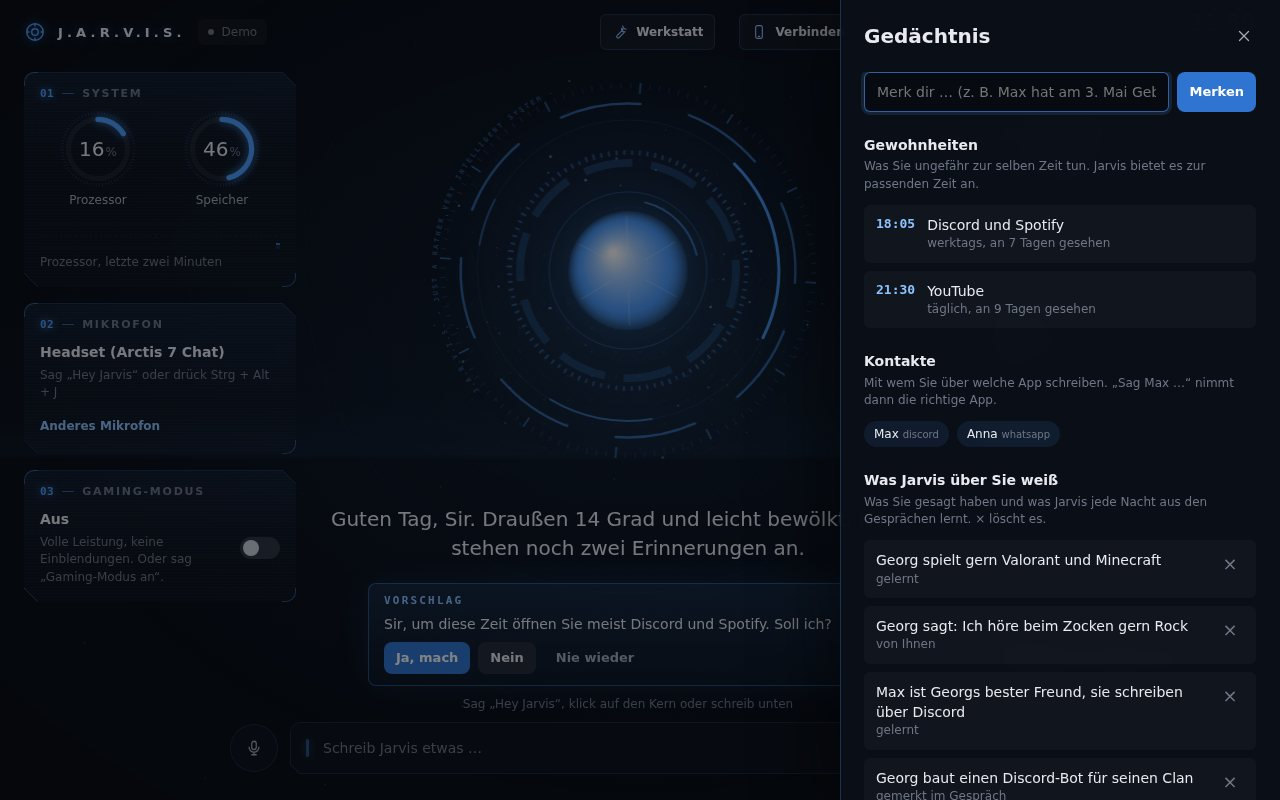
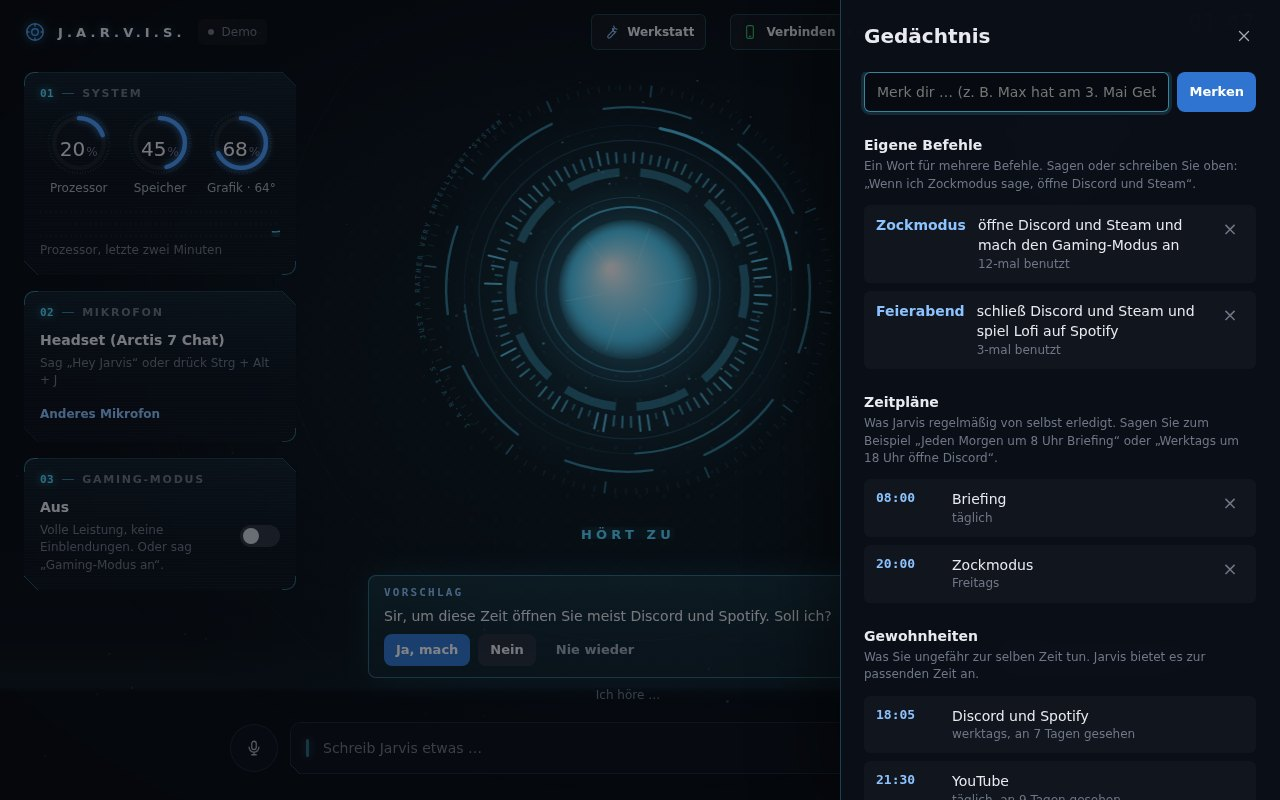
Anleitung und Bilder: lokale Stimme, Kalender, Handy-Stimme, Zeitpläne, Notizbuch
Neue Abschnitte in der ANLEITUNG (Lokale Stimme, Handy mit Sprechtaste und
"Sicher von überall", Kalender, eigene Befehle, Zeitpläne, Termine,
Notizbuch und Fähigkeiten, Opus mit dem Max-Abo) und im README. Neue
Bilder vom Hauptfenster (Schnellbefehle, Grafik-Ring, Termine unter
Heute), vom Gedächtnis, von Verbinden > Kalender und vom Handy.

Die Schnellbefehle bleiben in einer Zeile und machen Platz, solange ein
Vorschlag offen ist.

Claude-Session: https://claude.ai/code/session_01SmtJ1qc8wnYu9sLYM9z56c

diff --git a/jarvis/gui/web/style.css b/jarvis/gui/web/style.css
@@ -1912,7 +1912,9 @@ body[data-view="workshop"] .holo-scan {
   justify-content: center;
   gap: 8px;
   max-width: 560px;
+  max-height: 34px; /* immer nur eine Zeile: was nicht passt, bleibt weg */
   margin: 4px auto 0;
+  overflow: hidden;
 }
 
 .deck:empty {
@@ -1939,4 +1941,9 @@ body[data-view="workshop"] .holo-scan {
 
 .status.busy .deck {
   visibility: hidden;
+}
+
+/* Während ein Vorschlag offen ist, reicht der Platz nicht für beides */
+.offer:not([hidden]) ~ .deck {
+  display: none;
 }

diff --git a/ANLEITUNG.md b/ANLEITUNG.md
@@ -53,9 +53,20 @@ Das ist der große Unterschied: Jarvis klingt dann wie ein Mensch.
 
 Fertige Stimmen aus der Bibliothek (zum Beispiel Lennard) gehen ab dem Abo **Starter** (etwa 6 $ im Monat).
 
-## 3. Handy, Alexa und Discord verbinden (freiwillig)
+### Lokale Stimme (kostenlos, ohne Internet)
 
-Im Jarvis-Fenster oben auf **Verbinden** klicken. Dort gibt es drei Bereiche.
+Die Alternative zu ElevenLabs: Eine natürliche deutsche Stimme, die ganz auf deinem PC läuft. Kein Abo, kein Schlüssel, nichts geht ins Internet.
+
+1. Einrichtung (Zahnrad im Jarvis-Fenster) > **Stimme** > Reiter **Lokal**.
+2. **Lokal einrichten** klicken. Jarvis lädt einmalig etwa 1,3 GB (Stimme und Spracherkennung). Das dauert je nach Internet 5 bis 15 Minuten.
+3. Die sechs Stimmen anhören (▶) und eine anklicken. **George** ist am klarsten, **Charles** am tiefsten.
+4. Wer möchte: **Auch die Spracherkennung auf dem PC** einschalten. Dann geht außer den Fragen an Claude gar nichts mehr ins Internet.
+
+**Geklappt, wenn:** oben „Aktiv“ steht und Jarvis mit der gewählten Stimme antwortet. Die Stimme rechnet auf dem Prozessor und nimmt höchstens die Hälfte der Kerne, damit Spiele flüssig bleiben.
+
+## 3. Handy, Alexa, Discord und Kalender verbinden (freiwillig)
+
+Im Jarvis-Fenster oben auf **Verbinden** klicken. Dort gibt es vier Bereiche.
 
 ![Verbinden: Handy, Alexa und Discord](docs/bilder/verbinden.jpg)
 
@@ -65,7 +76,16 @@ Im Jarvis-Fenster oben auf **Verbinden** klicken. Dort gibt es drei Bereiche.
 2. Mit der Handy-Kamera den QR-Code scannen und den Link öffnen.
 3. Im Browser-Menü **Zum Startbildschirm hinzufügen** (iPhone: Teilen-Knopf). Jetzt ist Jarvis eine App auf deinem Handy.
 
-**Geklappt, wenn:** oben in der App „Bereit“ steht. Du kannst schreiben, mit dem Mikrofon der Handy-Tastatur diktieren, Schnellaktionen antippen und die Werkstatt verfolgen. Das Handy muss im selben WLAN sein. Von unterwegs: **Tailscale** (kostenlos) auf PC und Handy installieren.
+**Geklappt, wenn:** oben in der App „Bereit“ steht. Du kannst schreiben, mit dem Mikrofon der Handy-Tastatur diktieren, Schnellaktionen (auch deine eigenen Befehle) antippen und die Werkstatt verfolgen. Das Handy muss im selben WLAN sein.
+
+**Jarvis' Stimme auf dem Handy:** Oben rechts in der App steht, wo Jarvis antwortet. Tippen wechselt zwischen **Handy** (Jarvis spricht auf dem Handy, in derselben Stimme wie am PC), **PC** und **Still**.
+
+**Sicher von überall, mit Sprechtaste:** Mit **Tailscale** (kostenlos) geht die App auch unterwegs, über eine verschlüsselte Adresse. Dann funktioniert auch die **Sprechtaste** in der App (antippen, sprechen, nochmal tippen), und die App lässt sich richtig installieren.
+
+1. Tailscale auf dem PC installieren (oder sag „Jarvis, installiere Tailscale“) und einmal anmelden (Symbol unten rechts neben der Uhr).
+2. Auf dem Handy die App **Tailscale** installieren und mit demselben Konto anmelden.
+3. Im Bereich **Handy** bei **Sicher von überall** auf **Einschalten** klicken. Kommt der Knopf **HTTPS erlauben**: anklicken, im Browser bestätigen, dann nochmal **Einschalten**.
+4. Den QR-Code neu scannen. Die Adresse beginnt jetzt mit `https://`.
 
 **Benachrichtigungen aufs Handy** (Erinnerungen, „Aus der Werkstatt: fertig“), wenn du nicht am PC sitzt:
 
@@ -97,6 +117,18 @@ Jarvis' eigener Bot gestaltet deinen Server im Hintergrund: Kanäle, Rollen, Reg
 4. **Einladen** klicken, deinen Server auswählen, **Autorisieren**.
 
 **Geklappt, wenn:** du sagst „Jarvis, gestalte meinen Discord-Server für Gaming mit Regeln und Sprachkanälen“ und die Kanäle erscheinen.
+
+### Kalender
+
+Jarvis liest deinen Kalender mit (nur lesen): Er sagt 15 Minuten vor einem Termin Bescheid, nennt die Termine morgens, zeigt sie rechts bei **Heute** und merkt, wenn ein Termin abgesagt oder verschoben wird. Eigene Termine („Trag morgen um 18 Uhr Training ein“) gehen auch ganz ohne.
+
+1. Bereich **Kalender**: Bei **Google** oder **Outlook** auf **Öffnen** klicken.
+   - Google: links deinen Kalender wählen, ganz unten **Privatadresse im iCal-Format** kopieren.
+   - Outlook: **Kalender veröffentlichen**, dann den **ICS**-Link kopieren.
+   - iPhone: Kalender-App > Kalender > (i) > **Öffentlicher Kalender** > Link teilen.
+2. Die Adresse in Jarvis einfügen und **Prüfen** klicken.
+
+**Geklappt, wenn:** Jarvis „Kalender verbunden: … Termine“ meldet. Die Adresse ist geheim wie ein Passwort.
 
 ### PC per Handy einschalten (Wake-on-LAN)
 
@@ -153,6 +185,24 @@ Das geht nur, wenn der PC per Kabel am Router hängt und ausgeschaltet (nicht st
 - „Merk dir, dass ich gern Pizza esse“, „Merk dir: Max hat am 3. Mai Geburtstag“
 - „Was weißt du über mich?“, „Vergiss das mit der Pizza“
 
+**Eigene Befehle und Zeitpläne:**
+
+- „Wenn ich Zockmodus sage, öffne Discord und Steam und mach den Gaming-Modus an“, danach reicht **„Zockmodus“**
+- „Welche Befehle kennst du?“, „Lösch den Befehl Zockmodus“
+- „Jeden Morgen um 8 Uhr: Briefing“, „Werktags um 18 Uhr öffne Discord“, „Freitags um 20 Uhr: Zockmodus“
+- „Welche Zeitpläne habe ich?“, „Lösch den Zeitplan Briefing“
+
+**Termine:**
+
+- „Trag morgen um 18 Uhr Training ein“, „Trag Mittwoch von 18 bis 19 Uhr Sport ein“, „Trag am Sonntag Omas Geburtstag ein“
+- „Was steht heute an?“, „Was habe ich morgen vor?“, „Wann ist mein nächster Termin?“
+- „Sag den Termin Training ab“
+
+**Notizbuch:**
+
+- „Notiere: Milch kaufen“, „Schreib in mein Notizbuch, dass ich Max anrufen muss“
+- „Öffne mein Notizbuch“, „Was haben wir gestern gemacht?“, „Recherchiere die besten Gaming-Mäuse“ (der Bericht landet im Notizbuch)
+
 **Licht** (wenn Home Assistant eingerichtet ist, siehe ganz unten):
 
 - „Mach das Licht im Wohnzimmer an“, „Dimm das Licht auf 30 Prozent“, „Licht aus“
@@ -183,6 +233,14 @@ Lieber vorher gefragt werden? Einstellungen > Extras > **Volle Freigabe** aussch
 - **Geburtstage:** Sag „Merk dir, Max hat am 3. Mai Geburtstag“. Am 3. Mai sagt Jarvis: „Sir, heute hat Max Geburtstag. Soll ich Max auf Discord gratulieren?“ Ein „Ja“, und die Glückwünsche sind raus.
 - Jede Nacht schaut er kurz auf die Gespräche vom Vortag und merkt sich, was wichtig war.
 - Alles bleibt auf deinem PC. Im Fenster rechts bei **Gedächtnis** > **Ansehen** siehst du alles und kannst mit × einzelne Sachen löschen.
+
+## Notizbuch und Fähigkeiten
+
+**Notizbuch:** Jarvis schreibt jedes Gespräch mit Datum in einen Ordner (`%USERPROFILE%\Jarvis-Notizbuch`): ein Tagebuch pro Tag, eine Seite pro Person (mit Geburtstag und allem, was er über sie weiß), Berichte von Recherchen und deine Notizen. Mit dem kostenlosen Programm **Obsidian** („Ordner als Tresor öffnen“) siehst du alles verlinkt. Eigene Notizen in den Seiten bleiben erhalten. Passwörter schreibt er nie hinein.
+
+**Fähigkeiten:** Für wiederkehrende Aufgaben hat Jarvis genaue Anleitungen, die er nur liest, wenn er sie braucht: Discord-Server gestalten, Morgen-Briefing, Recherche mit Bericht, PC aufräumen und aktualisieren, Spiele starten (auch Steam und Epic), Smart Home, Bildschirm lesen. Zeigst du ihm etwas Neues und sagst **„Lern das“**, schreibt er sich selbst eine neue Fähigkeit. Alle stehen unter **Gedächtnis** > **Ansehen**.
+
+**Mit dem Claude-Max-Abo:** Einstellungen > **Gehirn** > **Gründlich**, dann denkt Jarvis immer mit Opus, dem klügsten Modell.
 
 ## Die Werkstatt: Jarvis programmiert für dich
 

diff --git a/README.md b/README.md
@@ -10,12 +10,13 @@ Dein eigener J.A.R.V.I.S. für Windows: Du sagst „Hey Jarvis“ oder drückst 
 Mikrofon → "Hey Jarvis" (openWakeWord, lokal), "Jarvis" (Porcupine, gratis Schlüssel) oder Strg+Alt+J
 Handy    → eigene Web-App im WLAN (QR-Code), Alexa → eigener Skill über ntfy.sh (verschlüsselt)
          → Satzende per Silero VAD (lokal)
-         → Sprache zu Text: Groq Whisper large-v3-turbo (gratis Schlüssel), Ersatz faster-whisper lokal
+         → Sprache zu Text: Groq Whisper large-v3-turbo (gratis Schlüssel), lokal Parakeet v3 oder faster-whisper
          → Sofort-Befehle direkt: Programme, Webseiten, Chatnachrichten, Discord ohne Maus, Erinnerungen,
-           Herunterfahren, Licht, Gedächtnis, Werkstatt-Projekte, Lautstärke, Musik, Uhrzeit
+           Termine, Zeitpläne, eigene Befehle, Notizen, Herunterfahren, Licht, Gedächtnis, Werkstatt, Musik
          → Bauaufträge ("Bau mir …"): Werkstatt mit eigenem Claude-Prozess (Opus/Sonnet) und Projektordner
-         → alles andere: Claude Code (dein Claude-Pro-Abo), läuft dauerhaft, Antwort wird gestreamt
-         → Stimme: ElevenLabs (Premium, Streaming), Ersatz Microsoft Neural (gratis), offline Piper
+         → alles andere: Claude Code (dein Claude-Abo), läuft dauerhaft, Antwort wird gestreamt,
+           mit Fähigkeiten (SKILL.md, nur bei Bedarf gelesen) und Notizbuch (Markdown, Obsidian)
+         → Stimme: ElevenLabs (Premium) oder lokal Pocket TTS (gratis, ohne Internet), Microsoft Neural, Piper
          → Anzeige oben am Bildschirm, HUD-Fenster, Tray-Symbol, Handy-App, Alexa
 ```
 
@@ -28,7 +29,11 @@ Handy    → eigene Web-App im WLAN (QR-Code), Alexa → eigener Skill über ntf
 - **Discord ohne Maus:** „Schreib Max auf Discord, bin gleich da“, „Geh in den Sprachkanal Zocken“, „Ruf Max auf Discord an“, „Discord stumm“. Jarvis nutzt Discords Schnellsuche und Tastenkürzel, prüft am Fenstertitel, ob er richtig gelandet ist, versucht es bei einer Störung (Maus bewegt, anderes Fenster vorn) von selbst noch zweimal und bringt dich danach zurück ins Spiel. Auch WhatsApp und Telegram.
 - **Discord-Server gestalten im Hintergrund:** Jarvis' eigener Bot legt Kanäle, Rollen, Regeln und Begrüßung an, über die offizielle Discord-Schnittstelle, ohne dein Spiel zu stören.
 - **Lernt dich kennen:** „Merk dir, …“, Kontakte mit ihrer App („Sag Max …“), Gewohnheiten auch mit Discord-Sprachkanal („Sir, um diese Zeit öffnen Sie meist Discord und Spotify. Soll ich?“), Geburtstage mit Angebot zu gratulieren, jede Nacht ein kurzer Rückblick auf die Gespräche. Alles bleibt lokal (`daten\gedaechtnis.json`) und ist im Fenster einsehbar.
-- **Handy-App:** im WLAN per QR-Code koppeln, dann schreiben, diktieren, Schnellaktionen, Vorschläge beantworten und die Werkstatt verfolgen. Von unterwegs mit Tailscale. Dazu Wake-on-LAN: den PC per Handy einschalten, und Benachrichtigungen über die App ntfy: Erinnerungen und „Aus der Werkstatt“ kommen aufs Handy, wenn du nicht am PC sitzt.
+- **Eigene Befehle und Zeitpläne:** „Wenn ich Zockmodus sage, öffne Discord und Steam“, danach reicht ein Wort. „Jeden Morgen um 8 Uhr: Briefing“, „Werktags um 18 Uhr öffne Discord“: Jarvis erledigt es von selbst (beim Zocken wartet er).
+- **Kalender:** „Trag morgen um 18 Uhr Training ein“, „Was steht heute an?“. Liest Google, Outlook oder iCloud mit (geheime iCal-Adresse), sagt 15 Minuten vorher Bescheid und merkt Absagen und Verschiebungen.
+- **Notizbuch und Fähigkeiten:** jedes Gespräch, Personen, Recherche-Berichte und Notizen als Markdown (in Obsidian verlinkt). Anleitungen für wiederkehrende Aufgaben (Discord-Server, Briefing, Recherche, PC-Pflege, Spiele), die Claude nur bei Bedarf liest; „Lern das“ legt neue an.
+- **Lokale Stimme:** natürliche deutsche Stimme (Pocket TTS) und Spracherkennung (Parakeet) ganz auf dem PC, ohne Internet und ohne Abo, mit einem Klick in der Einrichtung.
+- **Handy-App:** im WLAN per QR-Code koppeln, dann schreiben, diktieren, Schnellaktionen, Vorschläge beantworten und die Werkstatt verfolgen. Jarvis antwortet auf dem Handy in seiner eigenen Stimme. Mit Tailscale („Sicher von überall“) auch unterwegs, mit Sprechtaste und als installierbare App. Dazu Wake-on-LAN: den PC per Handy einschalten, und Benachrichtigungen über die App ntfy: Erinnerungen und „Aus der Werkstatt“ kommen aufs Handy, wenn du nicht am PC sitzt.
 - **Alexa:** „Alexa, sag Jarvis, er soll Discord öffnen.“ Ein eigener Skill (Von Alexa gehostet), den Jarvis fertig zum Kopieren anbietet. Die Nachrichten laufen verschlüsselt über ntfy.sh, ohne Home Assistant und ohne Router-Einstellungen. Mit Home Assistant zusätzlich Ansagen auf Echos und Licht.
 - **Bildschirm lesen und Programme ohne Maus bedienen:** Texterkennung von Windows (in etwa einer Sekunde) und UI Automation: Knöpfe drücken und Felder ausfüllen, ohne Maus und Tastatur zu nehmen.
 - **Werkstatt für Programmier-Aufträge:** „Bau mir einen Discord-Bot, der …“ läuft im Hintergrund in einem eigenen Projektordner, mit Plan, Tests, `LIESMICH.txt` und `start.bat`. Große Aufträge mit Opus, kleine mit Sonnet. Das Fenster zeigt alles als Blaupause und alle Projekte als Übersicht mit Starten und Weiterbauen.
@@ -46,7 +51,7 @@ Handy    → eigene Web-App im WLAN (QR-Code), Alexa → eigener Skill über ntf
 
 ## Kosten
 
-- **Claude-Pro-Abo:** das Gehirn.
+- **Claude-Abo (Pro oder Max):** das Gehirn. Mit Max lohnt Einrichtung > Gehirn > „Gründlich“ (immer Opus).
 - **Groq:** gratis (großzügiges Tageslimit, darüber übernimmt der eigene PC).
 - **ElevenLabs:** optional. Gratis-Konto mit 10.000 Credits im Monat und einer selbst entworfenen Stimme. Fertige Stimmen ab Starter (etwa 6 $ im Monat). Ohne Schlüssel spricht die gratis Microsoft-Stimme.
 - **Alexa-Skill, ntfy.sh, Discord-Bot, Tailscale:** gratis.
@@ -56,7 +61,8 @@ Handy    → eigene Web-App im WLAN (QR-Code), Alexa → eigener Skill über ntf
 Das Wichtigste stellst du in der Einrichtung und im Fenster unter „Verbinden“ ein. Alles steht in `config.toml` (Vorlage mit Erklärungen: `config.example.toml`):
 
 - `[stt]` `groq_key`, `engine = "auto" | "groq" | "lokal"`
-- `[tts]` `engine = "elevenlabs" | "edge" | "windows"`, `elevenlabs_key`, `elevenlabs_voice`
+- `[tts]` `engine = "elevenlabs" | "lokal" | "edge" | "windows"`, `lokal_stimme`, `elevenlabs_key`, `elevenlabs_voice`
+- `[kalender]` `abos` (geheime iCal-Adressen), `vorwarnung_minuten`; `[notizbuch]` `ordner`, `tagebuch`
 - `[mute]` `hotkey` (Stumm), `listen_hotkey` (Zuhören, Standard Strg+Alt+J)
 - `[listen]` `silence_seconds`, `vad`; `[wakeword]` `picovoice_key` (dann reicht „Jarvis“)
 - `[rechte]` `volle_freigabe`; `[gedaechtnis]` `vorschlaege`
